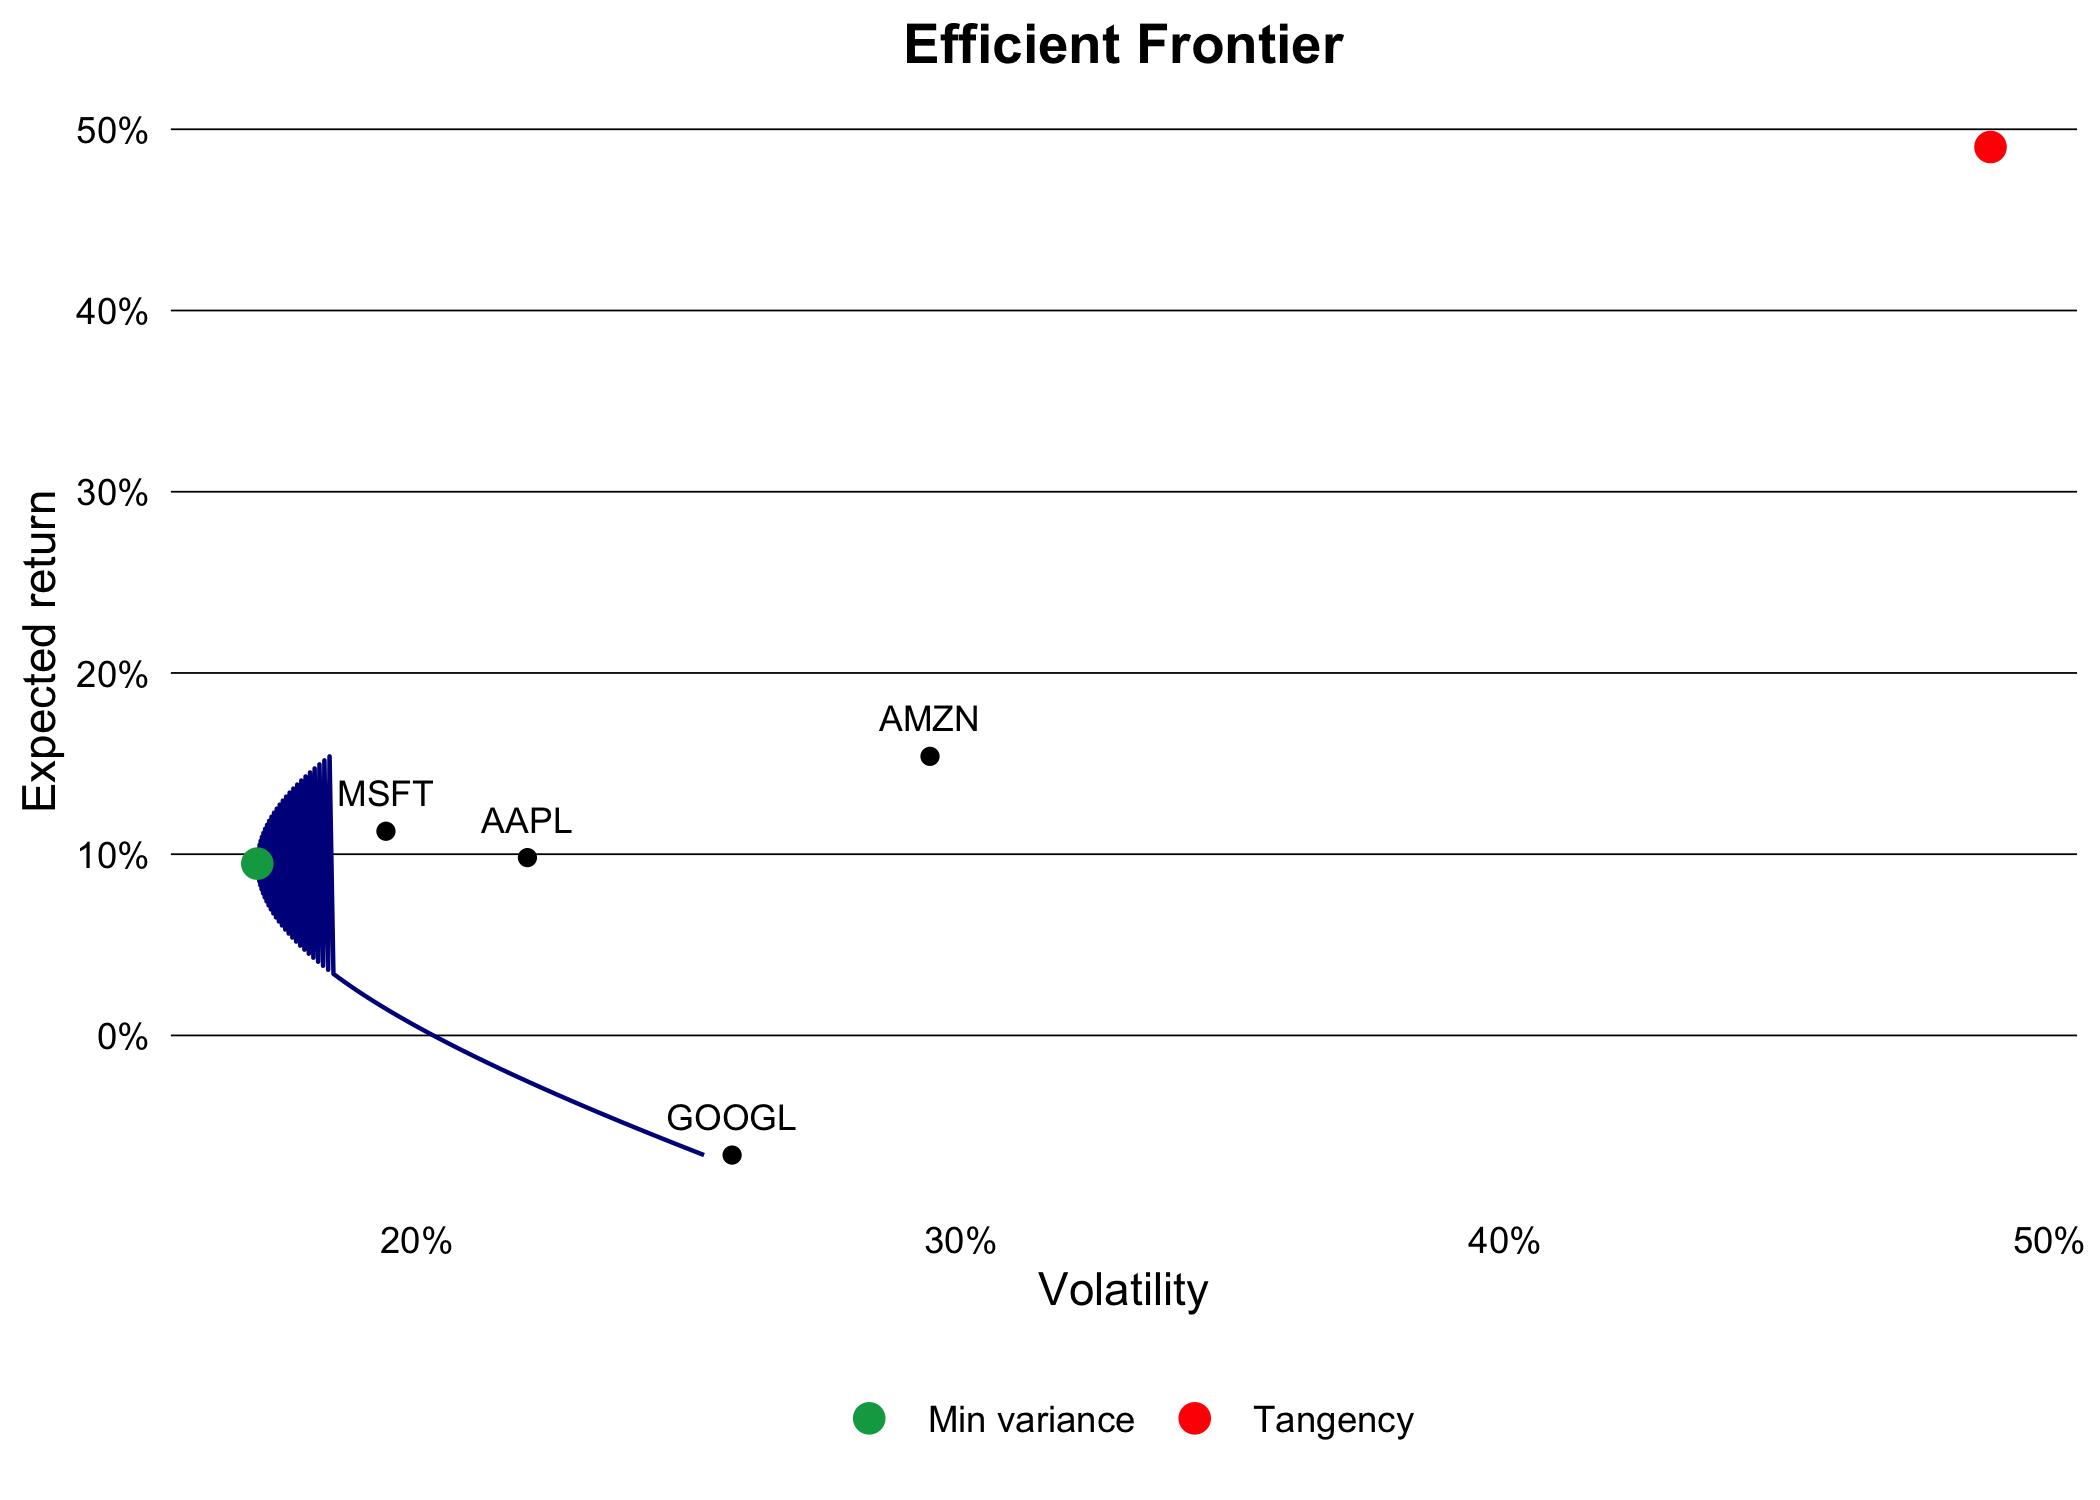
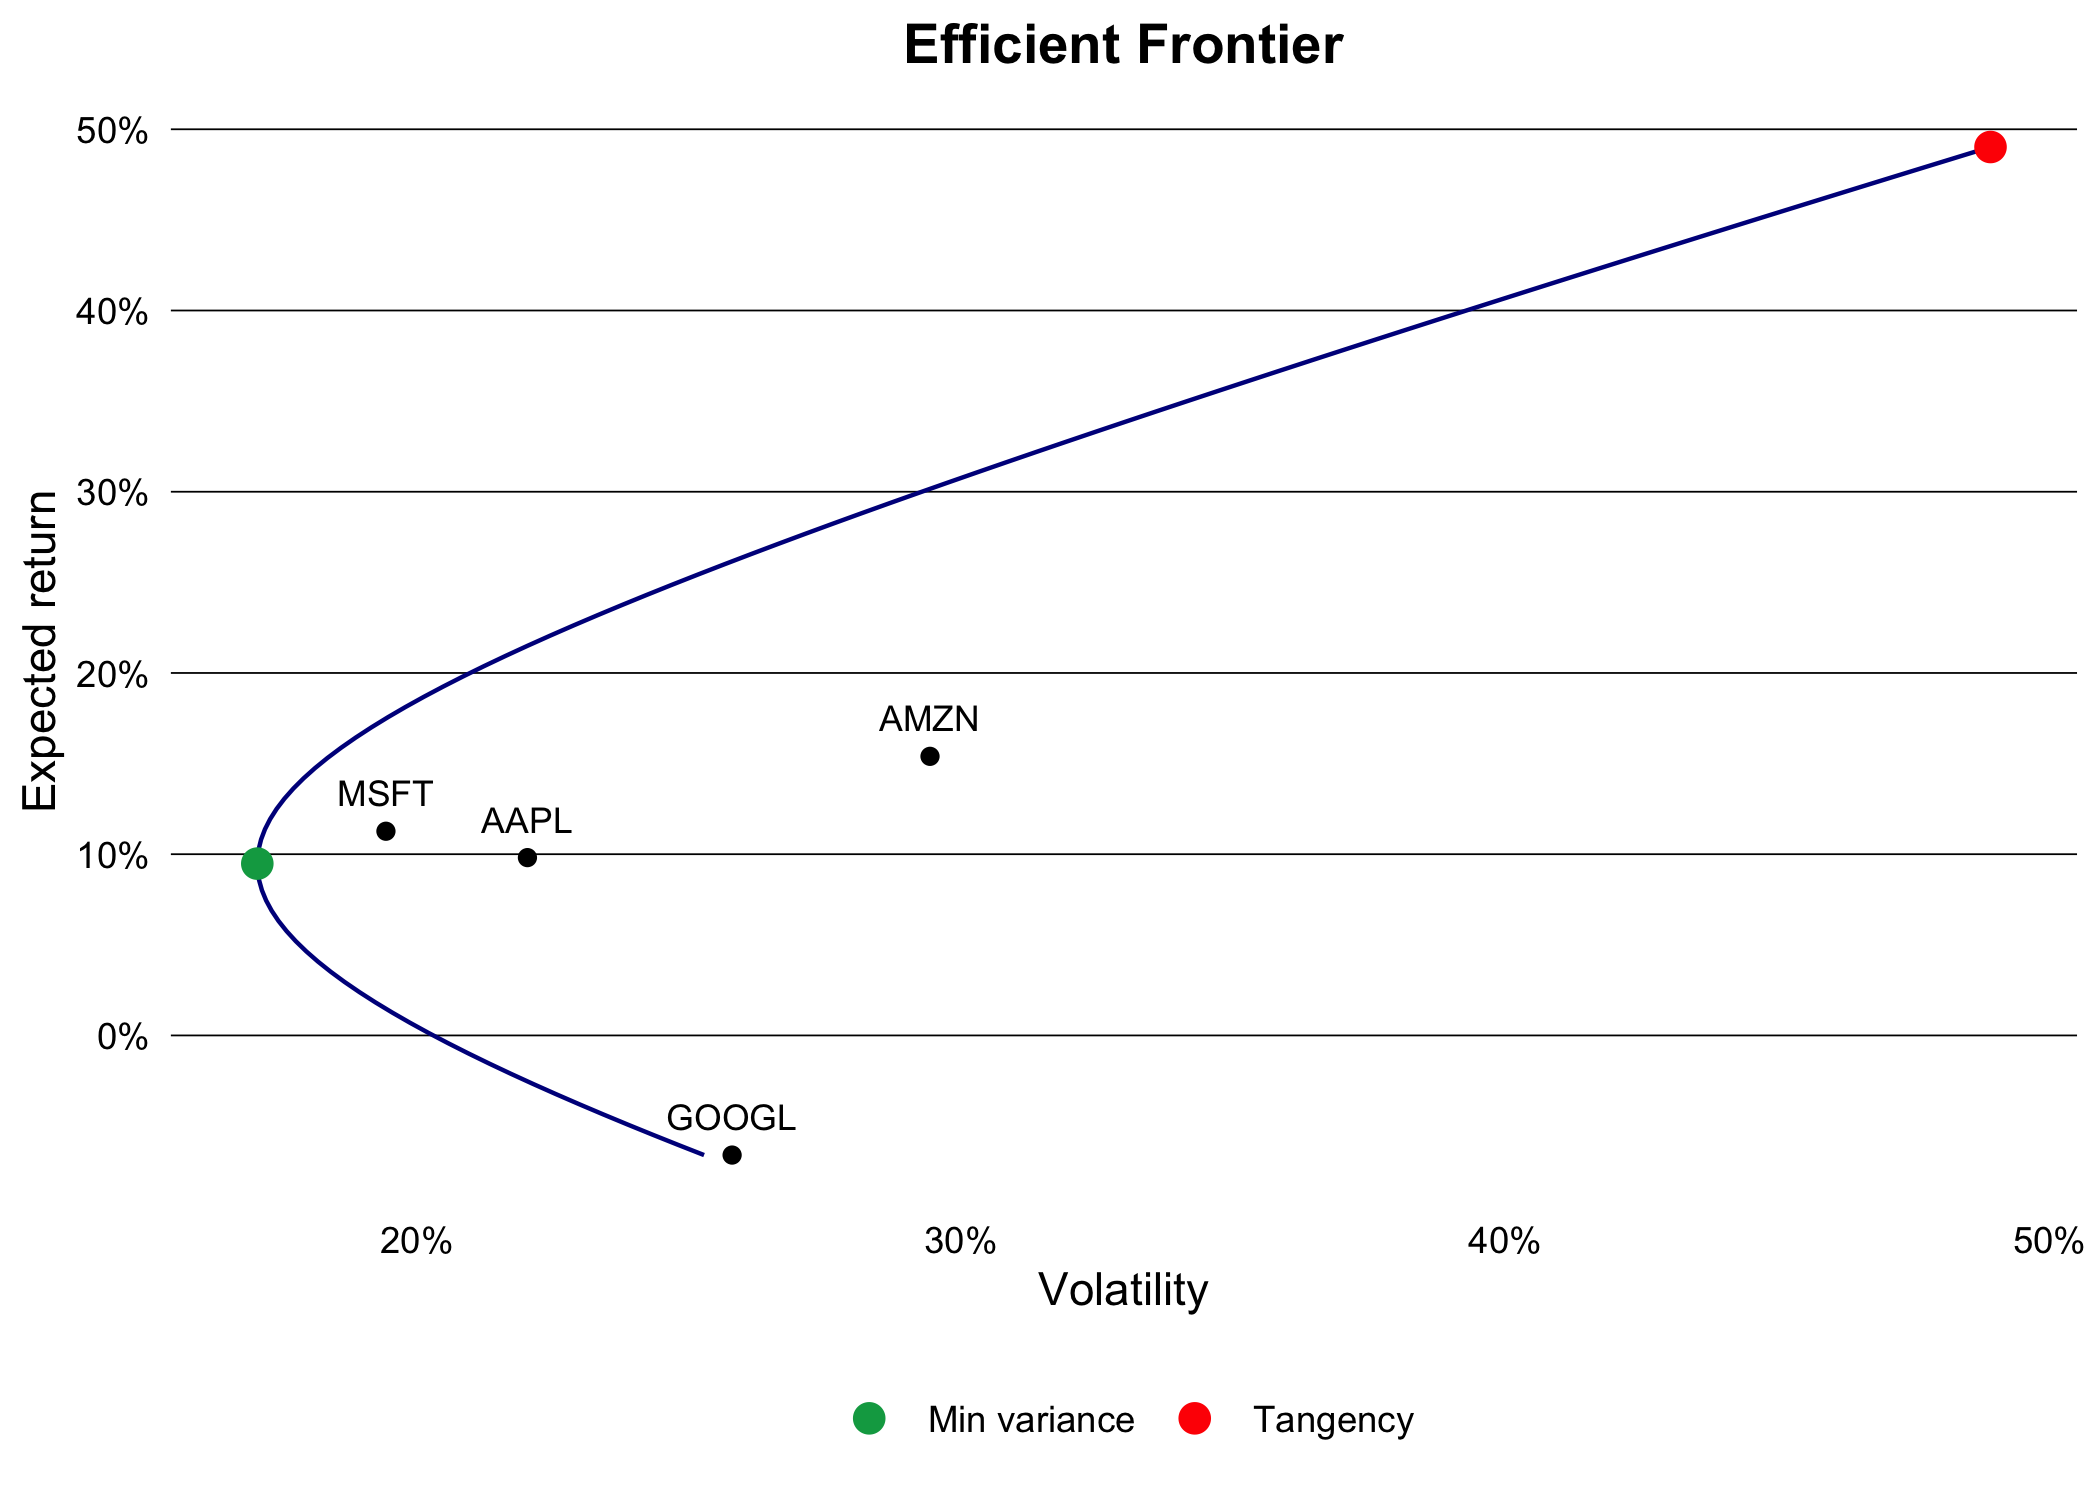
better frontier plot

diff --git a/README.md b/README.md
@@ -995,7 +995,7 @@ B = as.numeric(t(ones) %*% prec %*% mu_vec)
 C = as.numeric(t(mu_vec) %*% prec %*% mu_vec)
 D = A * C - B^2
 
-frontier = data.table(ret = seq(min(mu_vec), max(mu_vec), length.out = 100L)) |>
+frontier = data.table(ret = seq(min(mu_vec), tan$ret, length.out = 100L)) |>
   _[, vol := sqrt((A * ret^2 - 2 * B * ret + C) / D)]
 head(frontier)
 ```
@@ -1003,11 +1003,11 @@ head(frontier)
                ret       vol
              <num>     <num>
     1: -0.06600891 0.2527404
-    2: -0.06378661 0.2508462
-    3: -0.06156431 0.2489642
-    4: -0.05934202 0.2470948
-    5: -0.05711972 0.2452382
-    6: -0.05489742 0.2433947
+    2: -0.06039051 0.2479752
+    3: -0.05477210 0.2432911
+    4: -0.04915369 0.2386929
+    5: -0.04353529 0.2341854
+    6: -0.03791688 0.2297742
 
 Plot the frontier together with the individual instruments and the two
 optimal portfolios:
@@ -1021,7 +1021,7 @@ specials = data.table(
 )
 
 ggplot(frontier, aes(x = vol, y = ret)) +
-  geom_line(color = "darkblue") +
+  geom_path(color = "darkblue") +
   geom_point(data = assets, color = "black") +
   geom_text(data = assets, aes(label = ticker), vjust = -1, size = 3) +
   geom_point(data = specials, aes(color = label), size = 3) +
